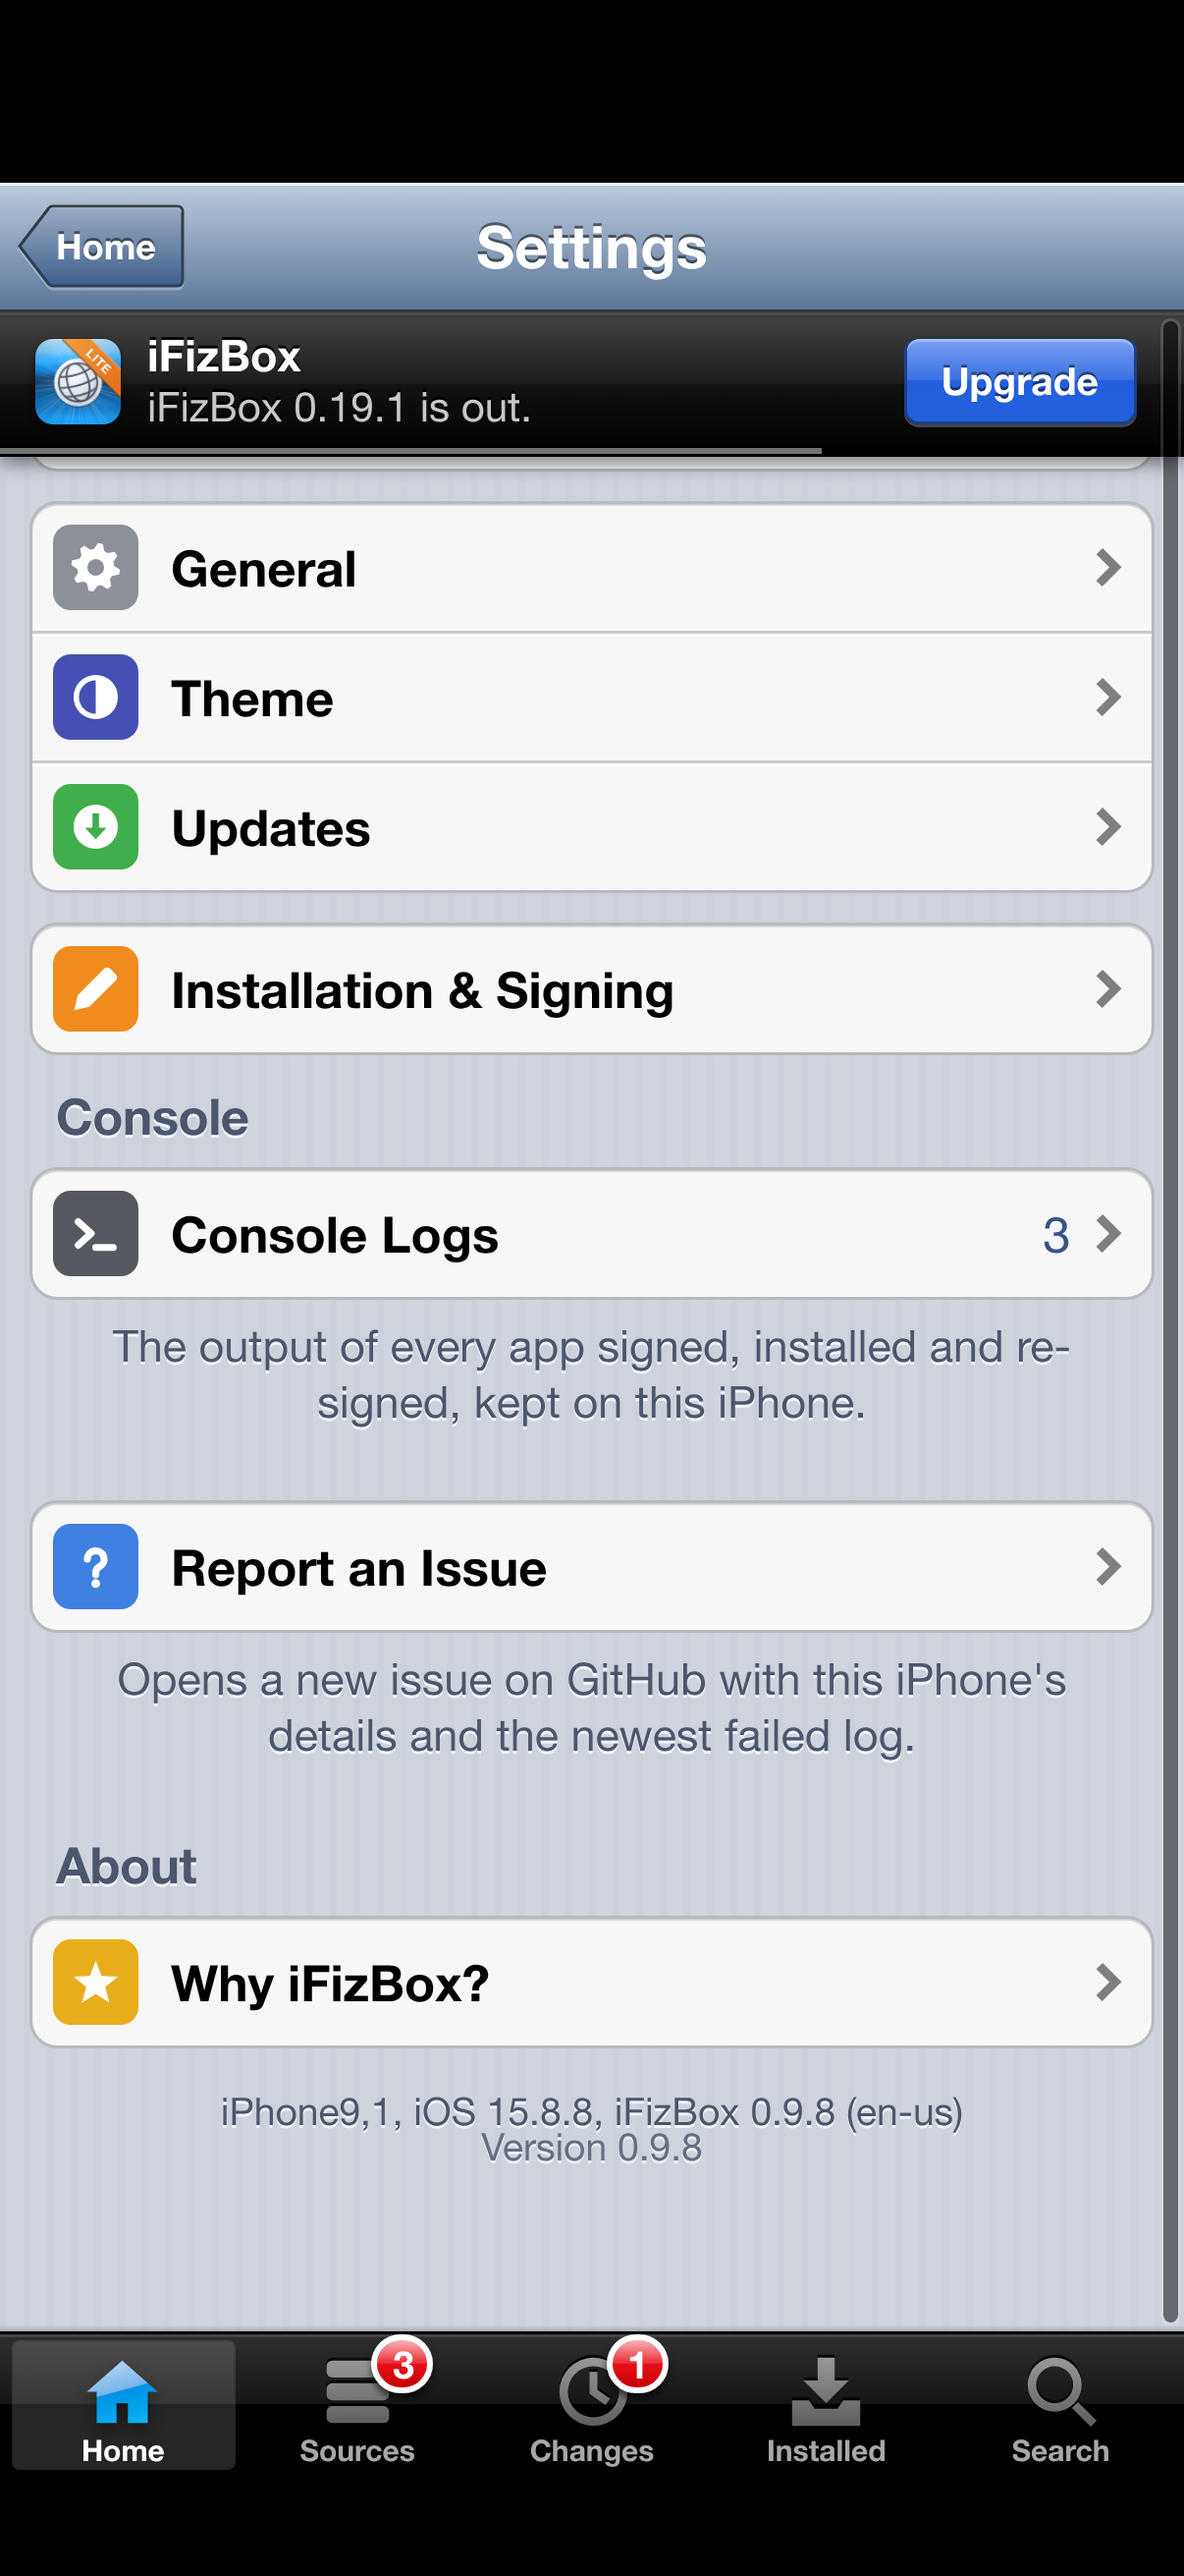
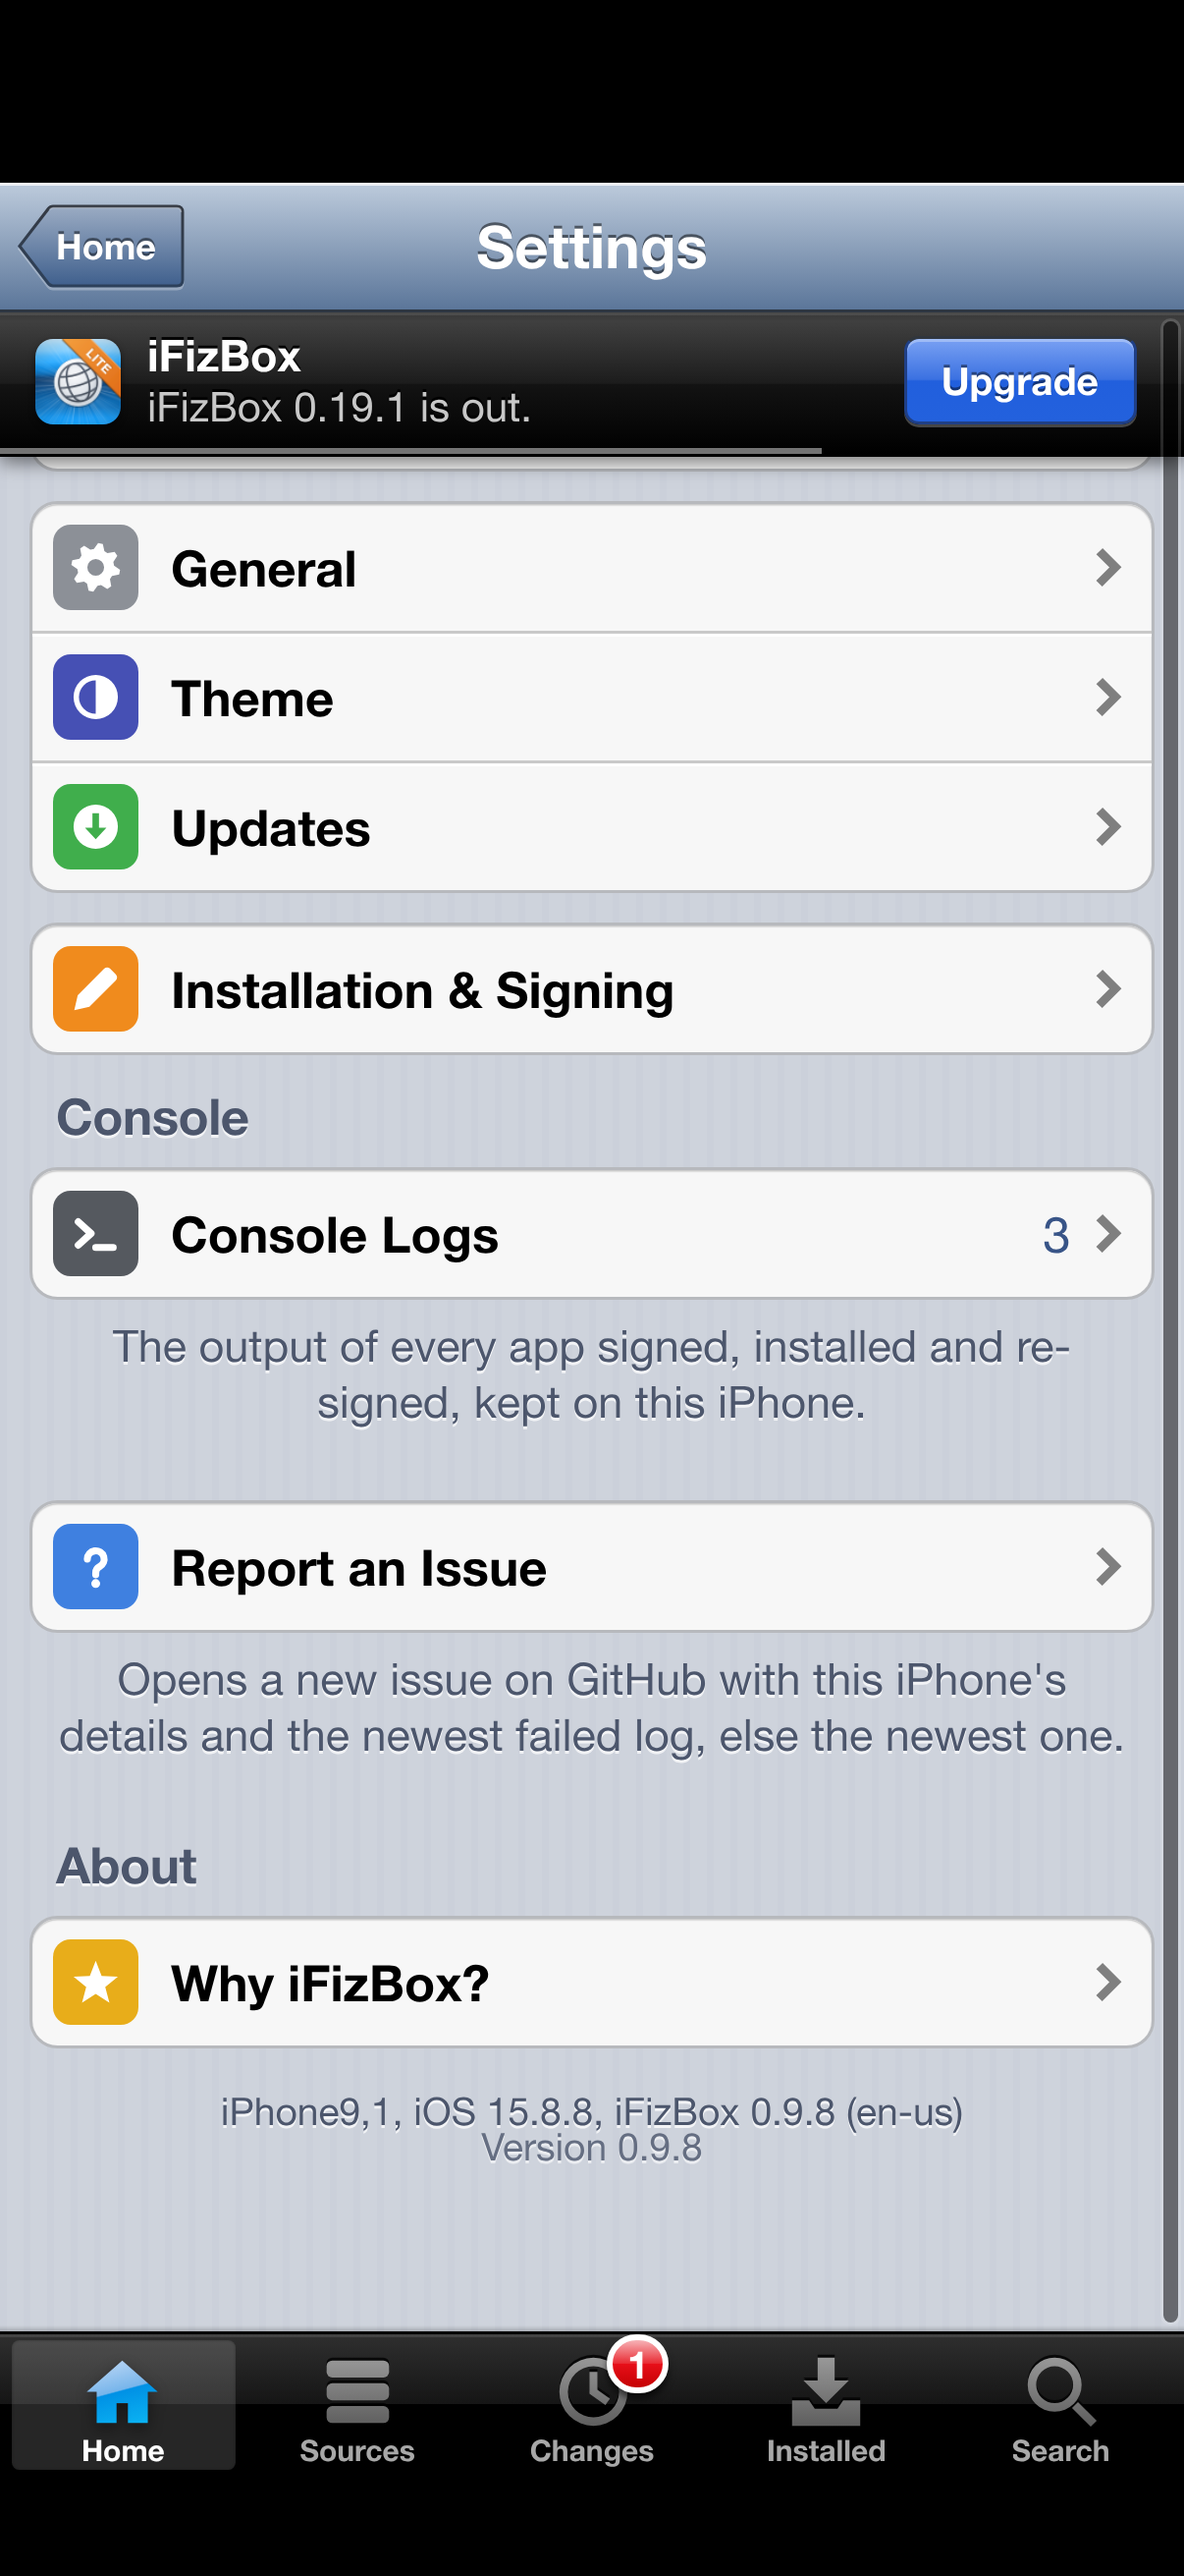
F362 wip: review fixes (bridge open-URL, footer wording, one-line trim note, no wait on the site)

Changed region(s): [[0.0614, 0.6487, 0.9511, 0.6796], [0.3068, 0.8959, 0.3682, 0.9268]]

diff --git a/web/app/screens/queue.js b/web/app/screens/queue.js
@@ -1029,7 +1029,7 @@ export function logsSection(mode, { logs = runLogs } = {}) {
   return grouped([{ header: "Console", rows: [{ label: "Console Logs", detail: list.length ? String(list.length) : "None", href: format(settingsRoute([LOGS])), icon: rowIcon("logs") }],
     footer: mode === "jailbreak" ? "The output of every install, upgrade and removal, kept on this iPhone."
       : "The output of every app signed, installed and re-signed, kept on this iPhone." },
-  reportGroup(null, { logs, footer: "Opens a new issue on GitHub with this iPhone's details and the newest failed log." })]);
+  reportGroup(null, { logs, footer: "Opens a new issue on GitHub with this iPhone's details and the newest failed log, else the newest one." })]);
 }
 
 // ---- F362: Report an Issue ---------------------------------------------------------------------------------
@@ -1052,13 +1052,24 @@ function reportInfoNow(native = nativeBridge()) {
 
 // Opens the new issue in Safari (app.js and the shell send window.open there); a log too long for the URL goes on
 // the clipboard whole, and the issue's body asks for it to be pasted.
-export async function reportIssue(id = null, { logs = runLogs, open = (u) => window.open(u, "_blank", "noopener"), copy = copyText } = {}) {
-  const info = reportReady ?? await reportInfoNow();
+export async function reportIssue(id = null, { logs = runLogs, native = nativeBridge(), open = (u) => openOutside(u, native),
+  copy = copyText } = {}) {
+  // The website never waits (the tap's own turn): before build.json answers, the issue goes without a version.
+  const info = reportReady ?? (native?.call ? await reportInfoNow(native)
+    : { mode: detectMode(), ios: currentDevice().ios, machine: globalThis.navigator?.userAgent });
   const pick = reportLog(logs.list(), id); // list() leaves the text out: get() has it
   const { url, trimmed, full } = issueUrl(info, pick && (logs.get(pick.id) ?? pick));
   if (trimmed) copy(full)?.catch?.(() => {});
   open(url);
   return { url, trimmed };
+}
+
+// The app: the shell's app.openURL (Safari); an older shell, or the website: window.open.
+async function openOutside(url, native) {
+  if (native?.call) {
+    try { if ((await native.call("app.openURL", { url }))?.opened) return; } catch { /* an older shell */ }
+  }
+  window.open(url, "_blank", "noopener");
 }
 
 function reportGroup(id, { logs = runLogs, footer } = {}) {

diff --git a/web/app/core/report-issue.js b/web/app/core/report-issue.js
@@ -56,11 +56,13 @@ export function issueBody(info = {}, entry = null, { lines = Infinity, chars = I
   let kept = all.slice(Math.max(0, all.length - lines));
   let text = kept.join("\n");
   if (text.length > chars) text = text.slice(text.length - chars); // one line longer than the URL can carry
-  const trimmed = kept.length < all.length || text.length < kept.join("\n").length;
+  const cutLine = text.length < kept.join("\n").length;
+  const trimmed = kept.length < all.length || cutLine;
   const when = Number.isFinite(entry.at) ? new Date(entry.at).toISOString().replace("T", " ").slice(0, 16) + " UTC" : "";
   const f = fence(text);
   out.push(`**Console Log:** ${[entry.title || "Run", when, runStatusText(entry)].filter(Boolean).join(" · ")}`
-    + (trimmed ? ` (trimmed: the last ${text.split("\n").length} of ${all.length} lines)` : ""), "", f, text, f, "");
+    + (cutLine ? ` (trimmed: the end of the last of ${all.length} lines)`
+      : trimmed ? ` (trimmed: the last ${text.split("\n").length} of ${all.length} lines)` : ""), "", f, text, f, "");
   if (trimmed) out.push("The full log is on your clipboard: paste it here in place of the trimmed one above.", "");
   return out.join("\n");
 }

diff --git a/web/app/core/report-issue.test.js b/web/app/core/report-issue.test.js
@@ -54,6 +54,7 @@ test("report-issue: one line longer than the cap keeps its end", () => {
   assert.ok(url.length <= URL_CAP);
   assert.equal(trimmed, true);
   assert.match(parse(url).body, /THE END\n```/);
+  assert.match(parse(url).body, /\(trimmed: the end of the last of 1 lines\)/);
 });
 
 test("report-issue: characters that need encoding survive the round trip", () => {

diff --git a/journal/2026-11-21-f362-report-an-issue/README.md b/journal/2026-11-21-f362-report-an-issue/README.md
@@ -29,6 +29,19 @@
 - `runLogs.list()` drops each entry's text. The first run of the shot sent an empty code block, so `reportIssue`
   now reads the picked entry with `get()`.
 
+## Spec review (fixed)
+
+- The Settings footer claimed "the newest failed log", but the fallback can send one that didn't fail. It now adds
+  "else the newest one".
+- When only the end of one long line fits, the header said "the last 1 of M lines". It now says "the end of the last
+  of M lines".
+- In the app, the row now calls the bridge's `app.openURL` itself and falls back to `window.open`. The shot's run
+  logged the `app.openURL` call.
+- On the website, a tap made before build.json answers no longer waits for it, so the popup and clipboard write keep
+  the tap's gesture. The issue then has no version.
+- I kept these extras: the glossary entry (the runner rules ask for one), the empty "What happened:" section and the
+  run's status in the title.
+
 ## Decisions
 
 - The clipboard is written only when the log was trimmed, so it isn't overwritten for nothing.
